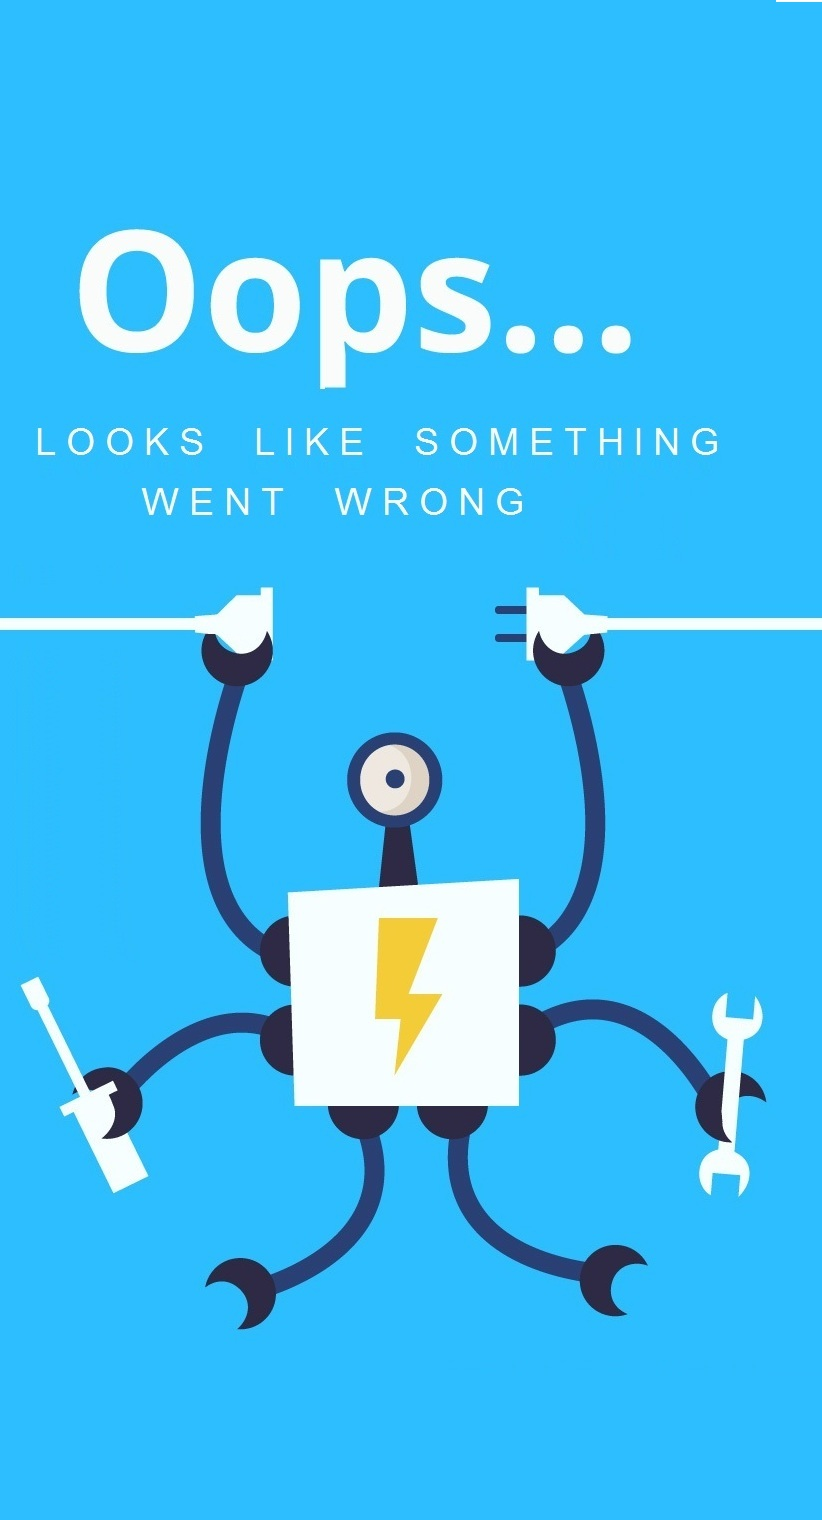
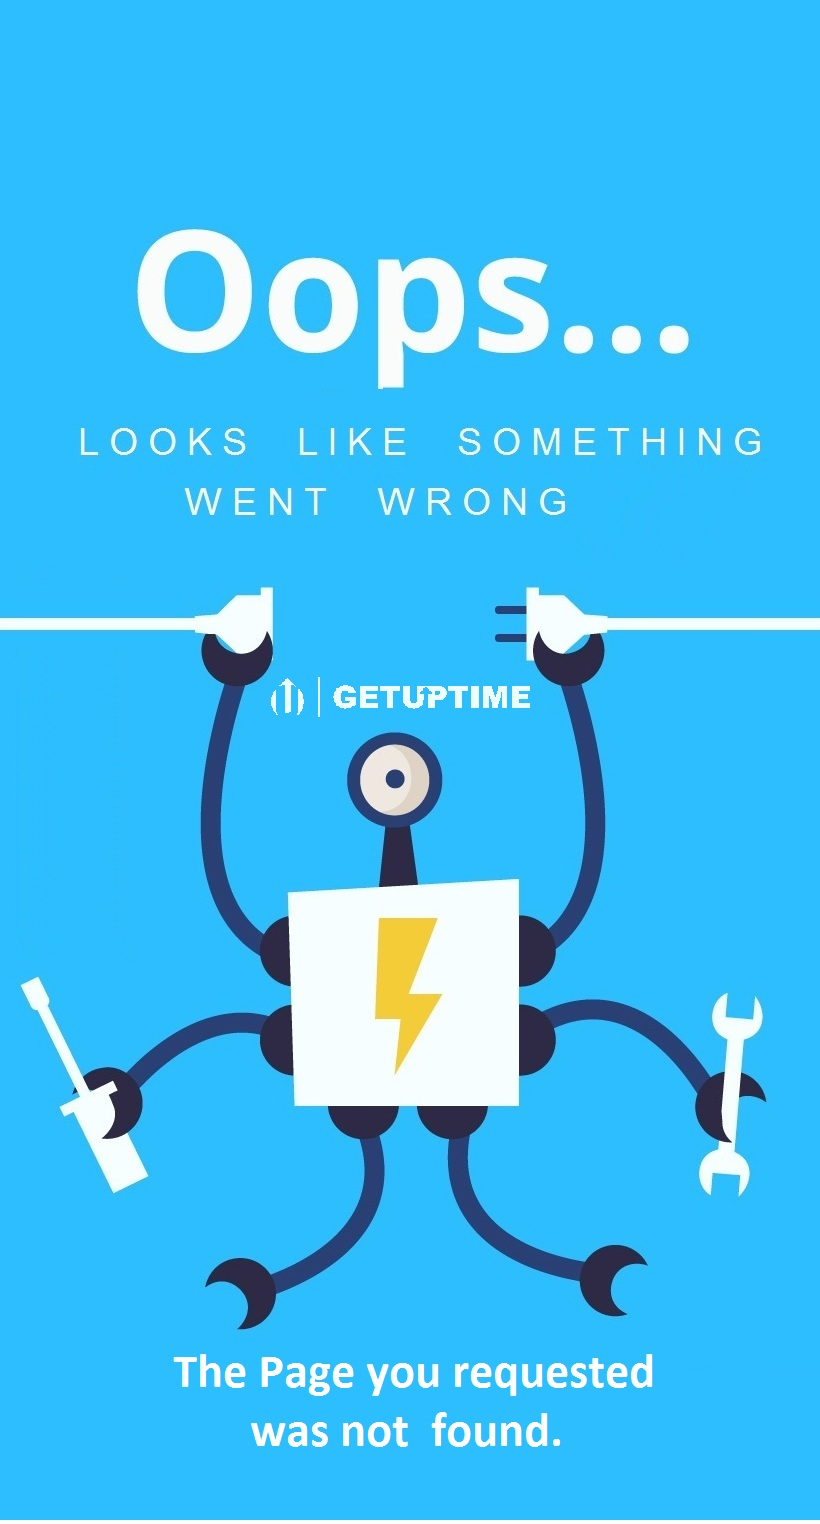
Add files via upload

diff --git a/404error.html b/404error.html
@@ -19,26 +19,47 @@
 				background-size: cover;
 				overflow: hidden;
 				overflow-x: hidden;
+				
             }
-			
+		#mobile { display: none; }	
 
 
 @media (max-width: 481px) {
   
   body{
-                
+                background-color:#2DBEFF;
                 color:#fff;
                 font-family: 'Calibri', sans-serif;
                 height: 100%;
 				width: 100%;
-				margin : 0px;
-				background-image:url('robot-mobile.jpg');
+				margin-top : 5px;
 				background-position: center;
 				background-repeat: no-repeat;
 				background-size: cover;
 				overflow: hidden;
 				overflow-x: hidden;
             }
+			
+			#call-to-action .cta-btn {
+			  font-family: "Montserrat", sans-serif;
+			  font-weight: 700;
+			  font-size: 16px;
+			  letter-spacing: 1px;
+			  display: inline-block;
+			  padding: 8px 26px;
+			  border-radius: 3px;
+			  transition: 0.5s;
+			  margin: 10px;
+			  border: 3px solid #fff;
+			  color: #fff;
+			  box-shadow: 0 4px 8px 0 rgba(0,0,0,0.2);
+			  transition: 0.3s;
+			  position: absolute;
+			  background:#3f51b5;
+			  width:75%'
+			  float:center;
+			}
+			#mobile { display: block; }
   
 }		
 			
@@ -268,6 +289,7 @@
     display: flex;
     align-items: center;
     justify-content: flex-end;
+	width:100%;
 	
   }
 }			
@@ -302,12 +324,11 @@
 
 </style>
 
-
 </head>
 <body>
 
 
-    <div class="one" >this is the content for desktop 1
+    <div class="one" > 1
 	<div id="clouds">
     <div class="cloud x1"></div>
     <div class="cloud x1_5"></div>
@@ -316,13 +337,29 @@
     <div class="cloud x4"></div>
     <div class="cloud x5"></div>
 </div>
-	<img id="logo"  src="logo.png" alt="HTML5 Icon" style="width:276px;height:48px; float: left; bottom:30%; left: 5%;  position: absolute;">
-		
+
 		<section id="call-to-action"
 			<div class="cta-btn-container">
             <a class="cta-btn" href="#" style="text-decoration: none;">GO BACK TO HOME</a>
           </div>
 		</section>
+
+	<div id="mobile">
+	<div id="clouds">
+    <div class="cloud x1"></div>
+    <div class="cloud x1_5"></div>
+    <div class="cloud x2"></div>
+    <div class="cloud x3"></div>
+    <div class="cloud x4"></div>
+    <div class="cloud x5"></div>
+</div>
+	<img src="robot-mobile.jpg" alt="Girl in a jacket" width="100%" height="100%">
+	<div class="one" > 1
+
+
+
+	<div>
+		
 	</div>
 	
 		
